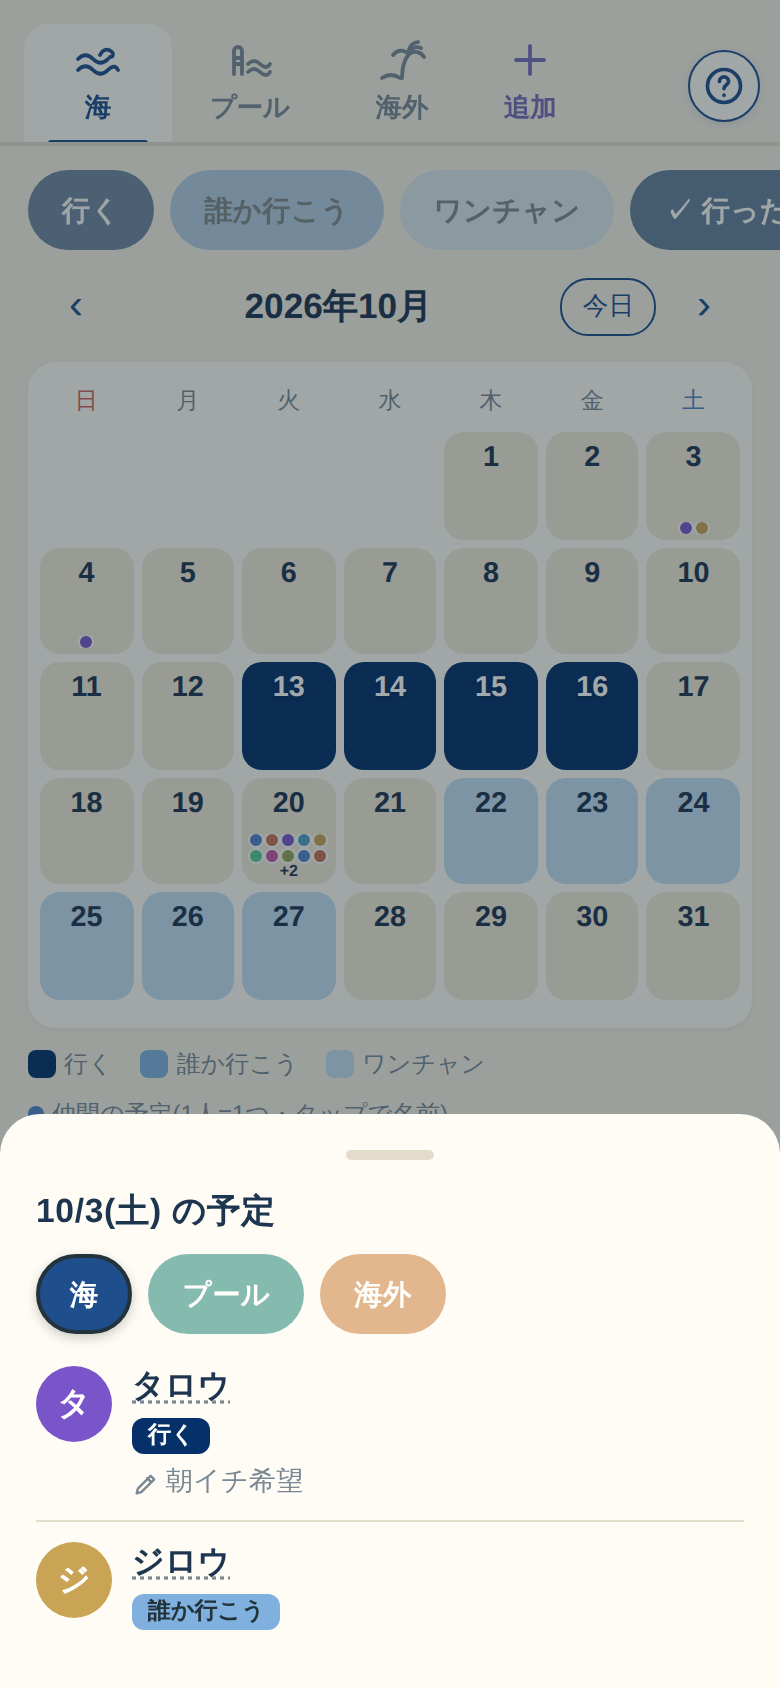
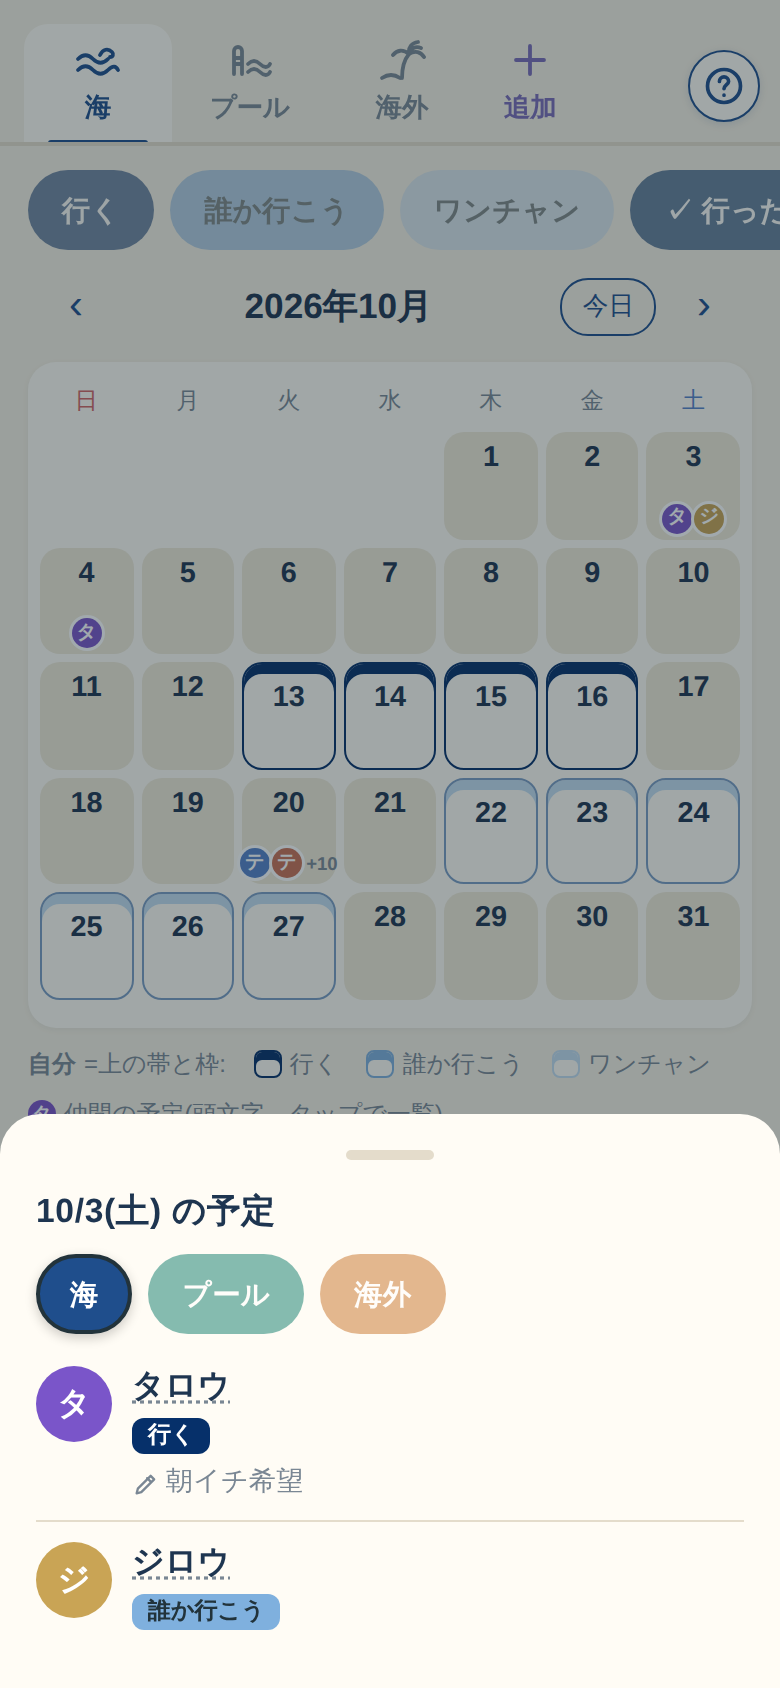
カレンダーのマス表示を案Aに: 自分=上の帯と枠、仲間=頭文字の丸
- 自分の予定はマスを塗らず、上の帯と枠の色で表す(中は白地)
- 仲間は色付きの頭文字(3人まで。4人以上は2人+「+n」)。トリップでは回答の色
- 凡例を新しい表現に。なぞった直後の見た目も同じ形に

Claude-Session: https://claude.ai/code/session_01YJ4aJdBi8Pih4aaSyeuZ7k

diff --git a/index.html b/index.html
@@ -21,7 +21,7 @@ window.SUPABASE_ANON_KEY = "sb_publishable_W1abE7HNjQaarTDyIOsXbQ_YNIPWrX7";
 // プッシュ通知用の公開鍵(公開してよい鍵。秘密鍵は GitHub Secrets → Supabase にだけ置く)
 window.VAPID_PUBLIC_KEY  = "BA9Xm1y7twV-ylxSr-6Ie0Cl3AMbKSUeK_ES5KWK8f6NQxncSMMBE_GVwQNMkT4seID6xvd0lyYyTy-rFxmblgc";
 // 更新の目印(配布のたびに変える。アプリを開き直さなくても新しい版に切り替わる)
-window.APP_BUILD = "2026-10-01.2";
+window.APP_BUILD = "2026-10-06.1";
 </script>
 <!-- ▲▲▲ ここまで ▲▲▲ -->
 
@@ -225,6 +225,15 @@ h2 .hi, h1 .hi{width:22px; height:22px; vertical-align:-5px;}
   width:24px; height:24px; display:flex; align-items:center; justify-content:center;}
 .day.painted .num{color:#fff; text-shadow:0 1px 2px rgba(0,0,0,.25);}
 .day.painted-light .num{color:var(--text); text-shadow:none;}
+/* 自分の予定 = 上の帯と枠(--my)。中は白地のまま → 仲間の頭文字と色が重ならない */
+.day.mine{background:var(--card); border:1.5px solid var(--my); box-shadow:inset 0 5px 0 var(--my); padding-top:9px;}
+.day.mine.light{border-color:color-mix(in srgb, var(--my) 55%, var(--accent));}
+.day.mine .num{color:var(--text); text-shadow:none;}
+.day.mine.today .num{color:#fff;}
+.day.mine.all-free{box-shadow:inset 0 5px 0 var(--my), inset 0 0 0 2.5px #F2B01E;}
+.day.mine.all-ok{box-shadow:inset 0 5px 0 var(--my), inset 0 0 0 2px #C9B8F0;}
+.day.mine.trip-confirmed{box-shadow:inset 0 5px 0 var(--my), inset 0 0 0 3px #6E4FBF;}
+.day.mine .note-mark{top:7px;}
 /* 行った(過去の日) */
 .day.went{opacity:1 !important;}
 .day.went::before{content:'✓'; position:absolute; top:1px; right:4px; font-size:.7rem; color:#fff; font-weight:800; z-index:1;}
@@ -241,16 +250,18 @@ h2 .hi, h1 .hi{width:22px; height:22px; vertical-align:-5px;}
 .day.painted-light .dots .more{color:var(--text);}
 .chip.chip-go{font-weight:800;}
 .day .note-mark{position:absolute; top:3px; right:4px; font-size:.6rem; z-index:1;}
-/* 仲間の予定: 1人=1つの色点(最大10個、超えたら +n) */
-.day .dots{position:absolute; bottom:3px; left:3px; right:3px; display:flex; flex-wrap:wrap;
-  gap:2px; justify-content:center; align-content:flex-end; max-height:22px; overflow:hidden;}
-.day .dots .dot{width:6px; height:6px; border-radius:50%; flex-shrink:0;
-  box-shadow:0 0 0 1px rgba(255,255,255,.8);}
-.day .dots .more{font-size:.5rem; font-weight:700; color:var(--text); line-height:6px; height:6px;}
+/* 仲間の予定: 頭文字の丸(最大3人、超えたら +n)。トリップでは回答の色 */
+.day .dots{position:absolute; bottom:3px; left:1px; right:1px; display:flex; justify-content:center; align-items:center; gap:1px;}
+.day .dots .dot{width:15px; height:15px; border-radius:50%; flex-shrink:0; color:#fff; font-size:.6rem; font-weight:700;
+  display:flex; align-items:center; justify-content:center; box-shadow:0 0 0 1.5px #fff; line-height:1;}
+.day .dots .dot.light{color:var(--text);}
+.day .dots .more{font-size:.58rem; font-weight:800; color:var(--sub); margin-left:1px;}
 .day.painted .dots .more{color:#fff;}
 #legend{margin-top:10px; display:flex; flex-wrap:wrap; gap:8px 14px; font-size:.75rem; color:var(--sub);}
 #legend .lg{display:flex; align-items:center; gap:4px;}
 #legend .sw{width:14px; height:14px; border-radius:4px;}
+#legend .sw.band{background:var(--card); border:1.5px solid var(--my); box-shadow:inset 0 4px 0 var(--my); box-sizing:border-box;}
+#legend .sw.ini{border-radius:50%; color:#fff; font-size:.6rem; font-weight:700; display:inline-flex; align-items:center; justify-content:center;}
 
 /* まとめてメモのバー */
 #bulk-memo-bar{position:fixed; bottom:calc(72px + var(--safe-bottom)); left:50%;
@@ -1559,23 +1570,25 @@ function renderCalendar(){
       style = `background:${intentDef(state.genre, 'went').color}`;
     } else if (my && !(isPast && went === false && normIntent(my.intent) === 'go')) {
       const idef = intentDef(state.genre, my.intent);
-      cls.push('painted'); if (idef.light) cls.push('painted-light');
-      style = `background:${idef.color}`;
+      cls.push('mine'); if (idef.light) cls.push('light');
+      style = `--my:${idef.color}`;
     }
     if (st) {
       if (trip.confirmed_start && ds >= trip.confirmed_start && ds <= trip.confirmed_end) cls.push('trip-confirmed');
       else if (st.allFree.has(ds)) cls.push('all-free');
       else if (st.allOk.has(ds)) cls.push('all-ok');
     }
-    // 仲間の予定は人数分の色点で表示(10人まで。超えたら +n)
+    // 仲間の予定は頭文字の丸(3人まで。超えたら +n)
     // 通常ジャンル: 人ごとの色 / トリップ: 回答(行ける・要調整・行けない)の色
     let dots = '';
     if (oth.length) {
-      const MAX_DOTS = 10;
+      const MAX_DOTS = oth.length > 3 ? 2 : 3;   // 4人以上は 2人 + 「+n」(幅に収める)
       const show = oth.slice(0, MAX_DOTS);
-      dots = `<div class="dots">${show.map(r =>
-        `<span class="dot" style="background:${trip ? intentDef(state.genre, r.intent).color : memberColor(r.member_id)}"></span>`).join('')}${
-        oth.length > MAX_DOTS ? `<span class="more">+${oth.length - MAX_DOTS}</span>` : ''}</div>`;
+      dots = `<div class="dots">${show.map(r => {
+        const idef = trip ? intentDef(state.genre, r.intent) : null;
+        const color = idef ? idef.color : memberColor(r.member_id);
+        return `<span class="dot ${idef && idef.light ? 'light' : ''}" style="background:${color}">${esc((memberName(r.member_id) || '?')[0])}</span>`;
+      }).join('')}${oth.length > MAX_DOTS ? `<span class="more">+${oth.length - MAX_DOTS}</span>` : ''}</div>`;
     }
     const noteMark = my && my.note ? '<span class="note-mark"><svg class="ic" style="width:10px;height:10px;stroke-width:2.5"><use href="#i-memo"/></svg></span>' : '';
     cells.push(`<div class="${cls.join(' ')}" data-date="${ds}" ${style ? `style="${style}"` : ''}>
@@ -1589,13 +1602,13 @@ function renderCalendar(){
 
   // 凡例
   const g = genreDef(state.genre);
-  $('legend').innerHTML = g.intents.map(i =>
-    `<span class="lg"><span class="sw" style="background:${i.color}"></span>${i.label}</span>`).join('')
+  $('legend').innerHTML = `<span class="lg"><b>自分</b>=上の帯と枠:</span>` + g.intents.map(i =>
+    `<span class="lg"><span class="sw band" style="--my:${i.color}"></span>${i.label}</span>`).join('')
     + (trip
       ? `<span class="lg"><span style="color:#F2B01E">★</span>全員行ける</span>
          <span class="lg"><span style="color:#8E74D6">☆</span>要調整なら全員OK</span>
-         <span class="lg"><span class="sw" style="background:#2E9E5B; border-radius:50%; width:8px; height:8px"></span>点=仲間の回答(タップで名前)</span>`
-      : `<span class="lg"><span class="sw" style="background:#5581C9; border-radius:50%; width:8px; height:8px"></span>仲間の予定(1人=1つ・タップで名前)</span>`)
+         <span class="lg"><span class="sw ini" style="background:#2E9E5B">タ</span>仲間の回答(頭文字・色=回答。タップで一覧)</span>`
+      : `<span class="lg"><span class="sw ini" style="background:#7A52C7">タ</span>仲間の予定(頭文字。タップで一覧)</span>`)
     + `<span class="lg"><span class="sw" style="background:${intentDef(state.genre,'went').color}; color:#fff; font-size:.6rem; text-align:center; line-height:14px">✓</span>行った(過去の日・記録に入る)</span>`;
 }
 
@@ -1738,13 +1751,17 @@ function applyStrokeToCell(cell, ds){
   // 見た目を即時反映
   if (stroke.mode === 'paint') {
     const idef = intentDef(state.genre, state.paint);
-    cell.classList.add('painted');
-    cell.classList.toggle('painted-light', !!idef.light);
-    cell.classList.toggle('went', state.paint === 'went');
-    cell.style.background = idef.color;
+    if (state.paint === 'went') {
+      cell.classList.remove('mine', 'light'); cell.style.removeProperty('--my');
+      cell.classList.add('painted', 'went'); cell.style.background = idef.color;
+    } else {
+      cell.classList.remove('painted', 'painted-light', 'went'); cell.style.background = '';
+      cell.classList.add('mine'); cell.classList.toggle('light', !!idef.light);
+      cell.style.setProperty('--my', idef.color);
+    }
   } else {
-    cell.classList.remove('painted', 'painted-light', 'went');
-    cell.style.background = '';
+    cell.classList.remove('painted', 'painted-light', 'went', 'mine', 'light');
+    cell.style.background = ''; cell.style.removeProperty('--my');
   }
 }
 
